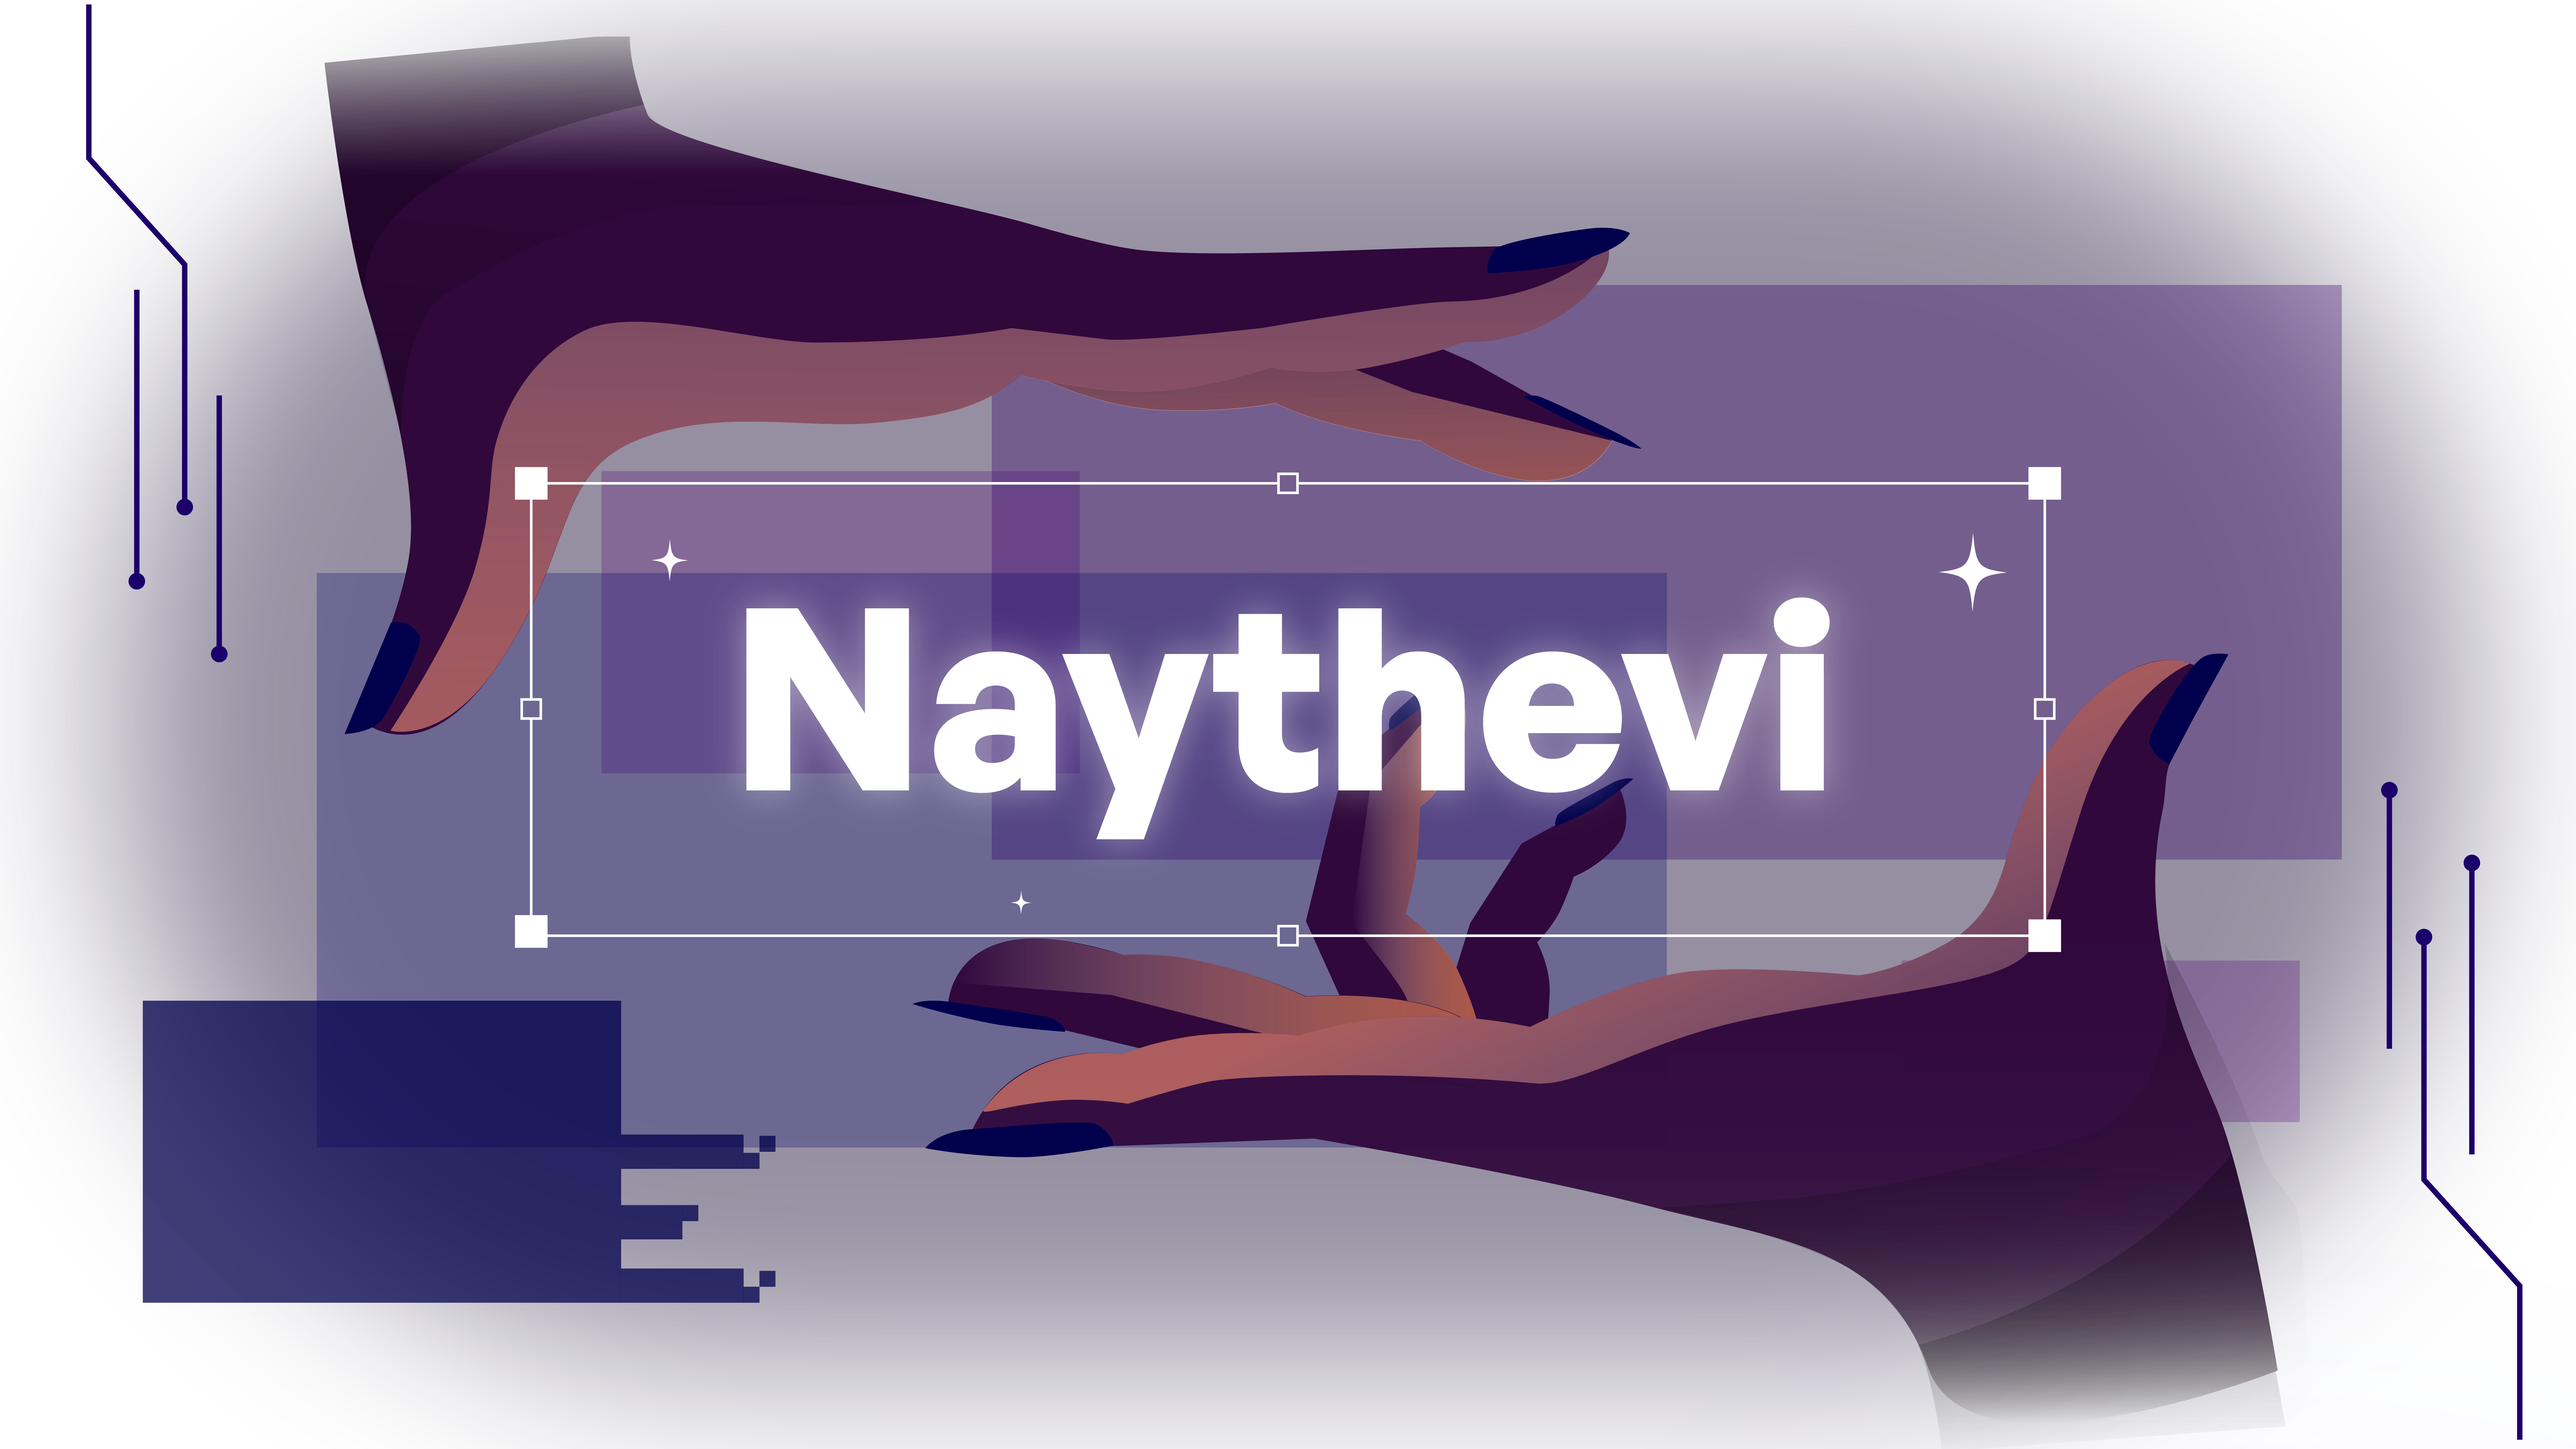
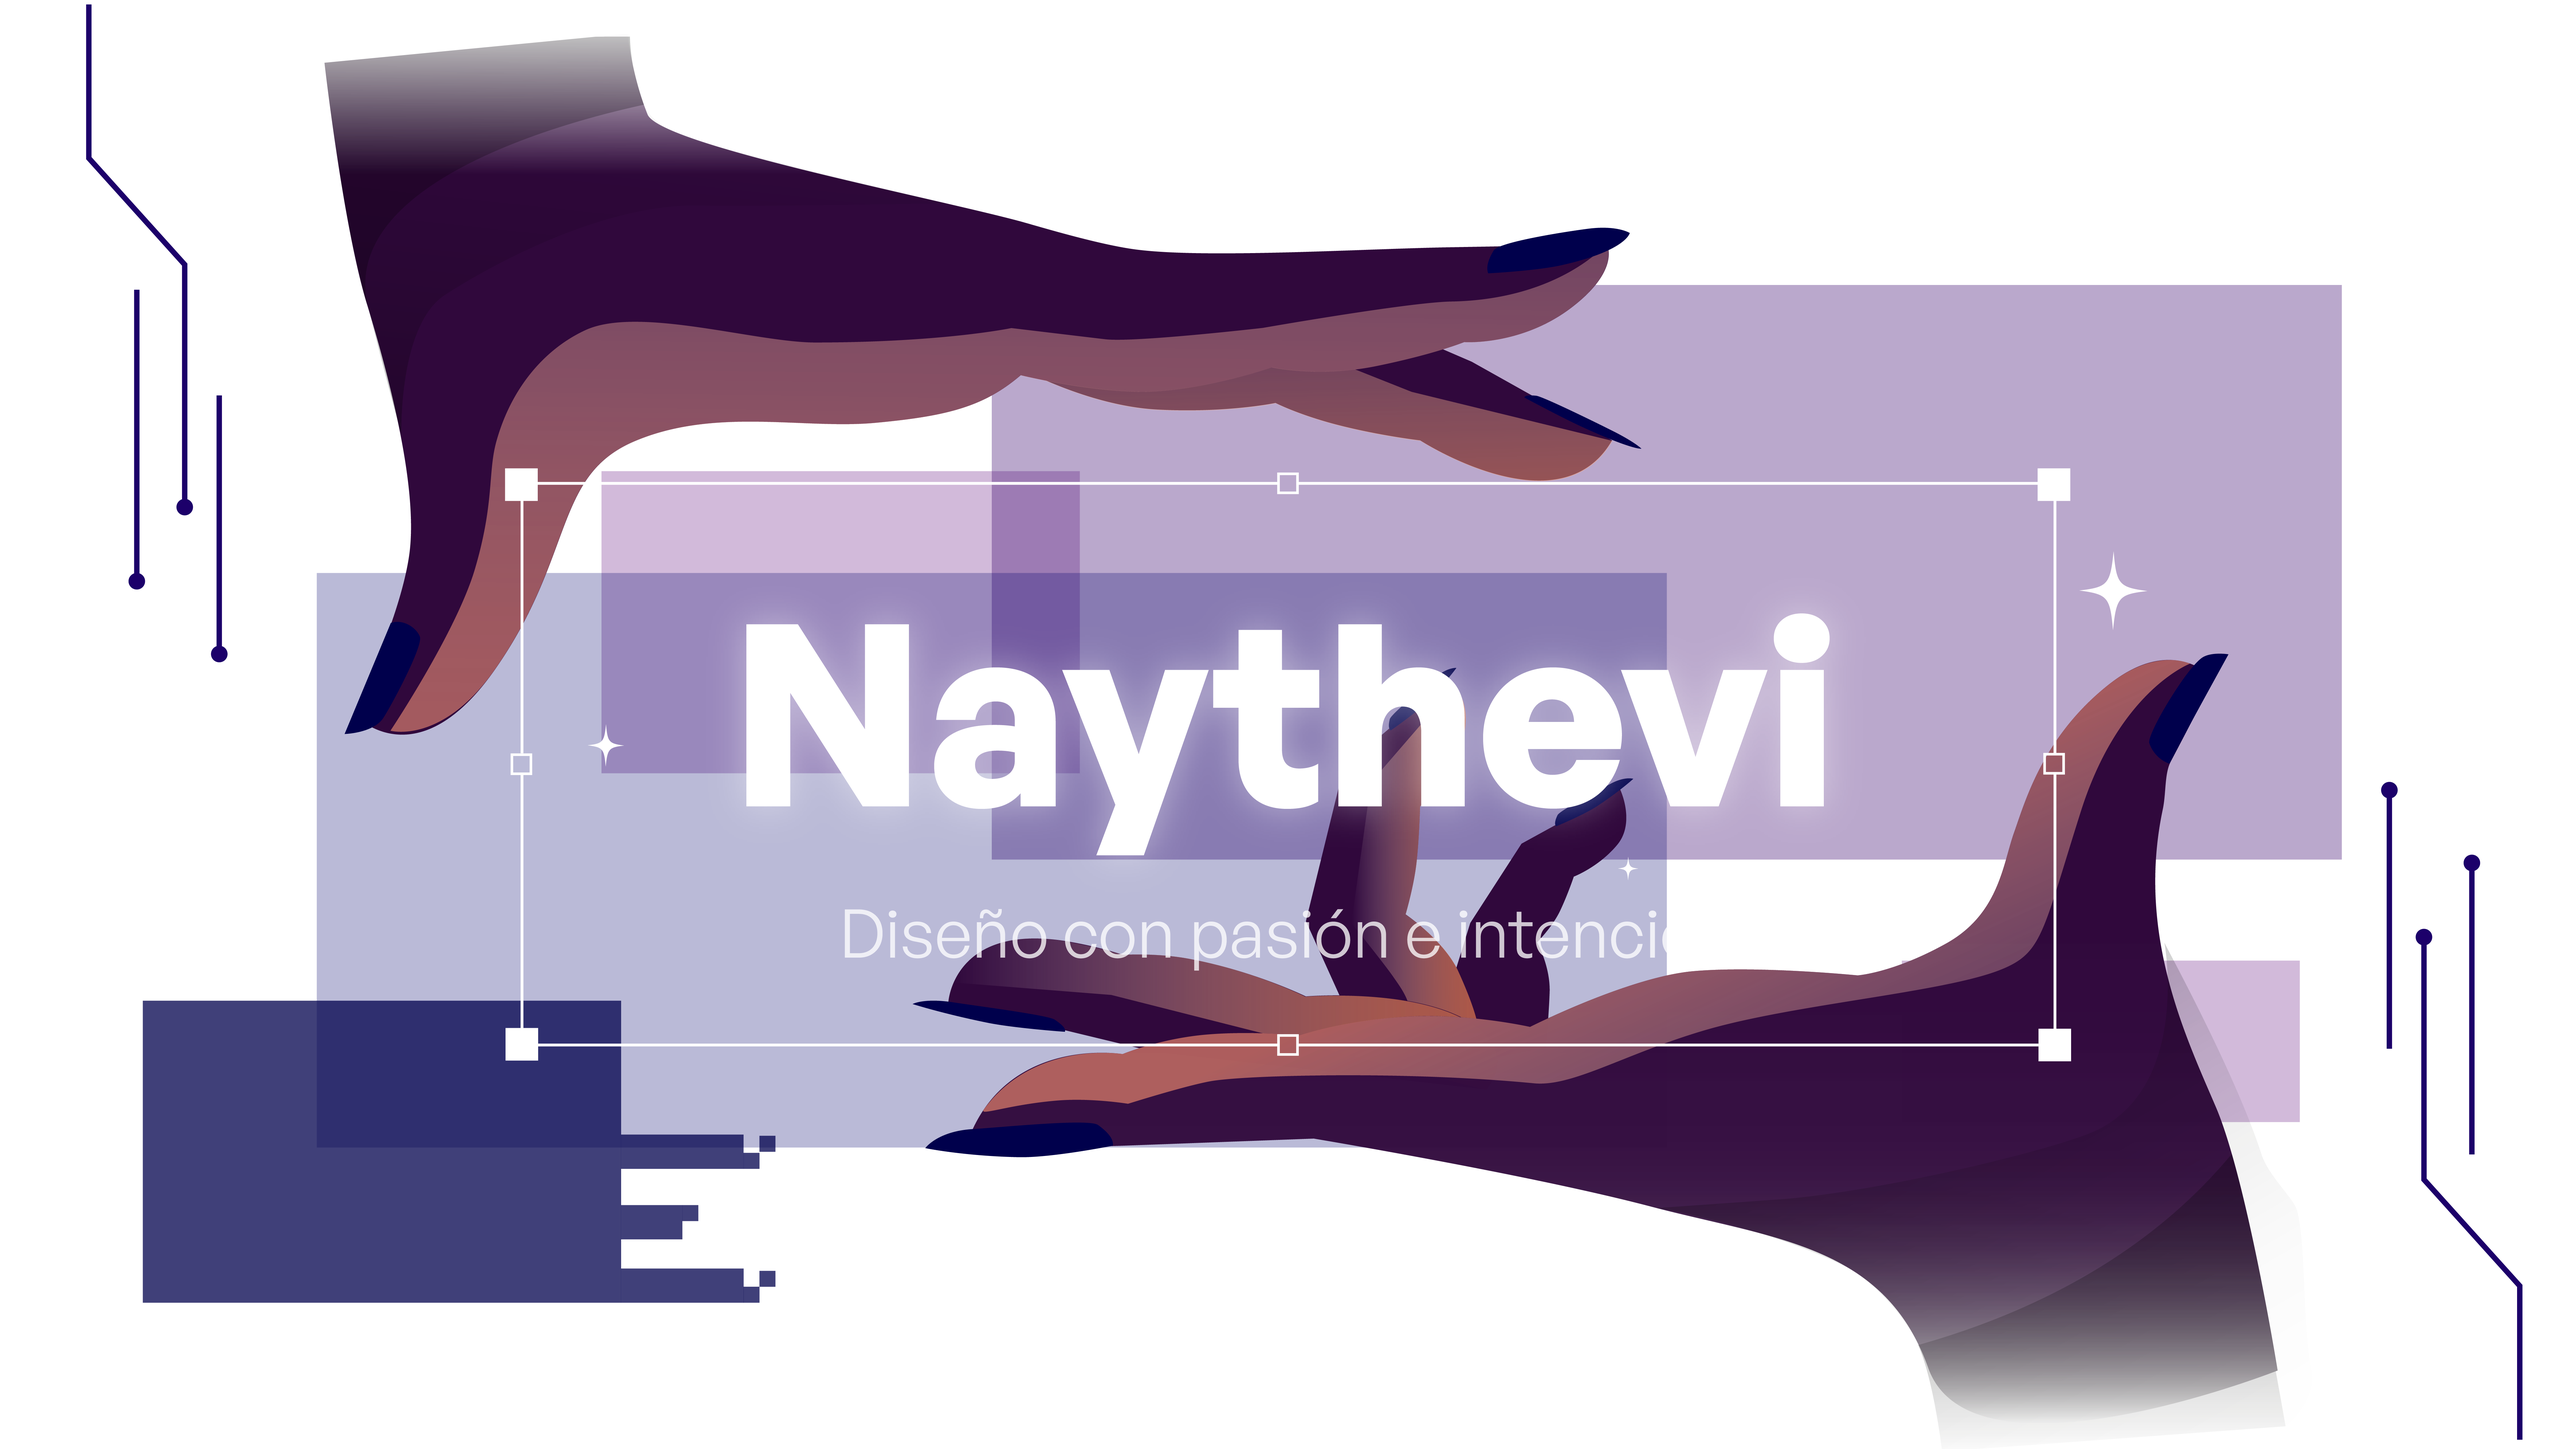
cambios

diff --git a/Inicio.html b/Inicio.html
@@ -72,13 +72,14 @@
             <div class="contenedor-inicio-parrafo">
                  
                 <p class="inicio-parrafo">
-                    Hola! Por si te preguntabas, Naythevi es la abreviatura de mi nombre y soy una diseñadora gráfica en Chile que disfruta de ser un medio entre las cosas y las personas. Es por esto que siempre procuro que mis trabajos destaquen por tener creatividad, interactividad y conexión con su esencia.
+                    Naythevi es la abreviatura de mi nombre. Soy una diseñadora gráfica en Chile que disfruta de ser un medio entre las cosas y las personas. Es por esto que siempre procuro que mis trabajos destaquen por tener creativad, interactividad y conexión con su escencia.
                 </p>
 
                 <p class="segundaparte-parrafo">
                     Disfruto mucho las áreas de Animación, Ilustración, Branding, Editorial y New media art. Por otro lado, de manera autodidacta, me encuentro aprendiendo el desarrollo de páginas webs y programación creativa.
                 </p> 
-                
+
+
                 <a href="Proyectos.html">
                     <button class="inicio-click">
                         <p class="clic-proyectos">
@@ -93,24 +94,15 @@
                             </svg>
                         </div>
                     </button>
-                </a>  
+                </a>    
+                    
+                
 
              </div>
             
         </div>
 
         
-        
-    
-
-        <footer>
-
-            <div class="footer">
-                <a class="footer-fila1" href="Contacto.html" > Contacto: naythevi@gmail.com | Instagram: @naythevisual</a>
-                <p class="footer-fila2">Todos los derechos reservados © 2024 | Página web hecha por mi ✿(✿ᴗ͈ ˬ ᴗ͈)✧</p>
-            </div>
-    
-        </footer>  
     
 
 

diff --git a/index.html b/index.html
@@ -71,7 +71,7 @@
             <div class="contenedor-inicio-parrafo">
                  
                 <p class="inicio-parrafo">
-                    Hola! Por si te preguntabas, Naythevi es la abreviatura de mi nombre y soy una diseñadora gráfica en Chile que disfruta de ser un medio entre las cosas y las personas. Es por esto que siempre procuro que mis trabajos destaquen por tener creativad, interactividad y conexión con su escencia.
+                    Naythevi es la abreviatura de mi nombre. Soy una diseñadora gráfica en Chile que disfruta de ser un medio entre las cosas y las personas. Es por esto que siempre procuro que mis trabajos destaquen por tener creativad, interactividad y conexión con su escencia.
                 </p>
 
                 <p class="segundaparte-parrafo">
@@ -102,17 +102,6 @@
         </div>
 
         
-        
-    
-
-        <footer>
-
-            <div class="footer">
-                <a class="footer-fila1" href="Contacto.html" > Contacto: naythevi@gmail.com | Instagram: @naythevisual</a>
-                <p class="footer-fila2">Todos los derechos reservados © 2024 | Página web hecha por mi ✿(✿ᴗ͈ ˬ ᴗ͈)✧</p>
-            </div>
-    
-        </footer> 
     
 
 

diff --git a/Sobre_mi.html b/Sobre_mi.html
@@ -100,14 +100,7 @@
     
         </div>
 
-        <footer>
-
-            <div class="footer">
-                <a class="footer-fila1" href="Contacto.html" > Contacto: naythevi@gmail.com | Instagram: @naythevisual</a>
-                <p class="footer-fila2">Todos los derechos reservados © 2024 | Página web hecha por mi ✿(✿ᴗ͈ ˬ ᴗ͈)✧</p>
-            </div>
-    
-        </footer>  
+       
             
  <script src="navbar.js"></script>
  <script src="cursor.js"></script>

diff --git a/Proyectos.html b/Proyectos.html
@@ -180,18 +180,6 @@
         </div>
 
 
-        <footer>
-
-            <div class="footer">
-                <a class="footer-fila1" href="Contacto.html" > Contacto: naythevi@gmail.com | Instagram: @naythevisual</a>
-                <p class="footer-fila2">Todos los derechos reservados © 2024 | Página web hecha por mi ✿(✿ᴗ͈ ˬ ᴗ͈)✧</p>
-            </div>
-    
-        </footer> 
-        
-    
-
-        
     
 
     <!-- Incluir el pie de página -->

diff --git a/navbar.html b/navbar.html
@@ -1,5 +1,5 @@
 <nav class="navbar">
-    <h1 class="navbar-title">NAYARETH HENRÍQUEZ VILLEGA </h1>
+    <h1 class="navbar-title"> </h1>
 
     <ul class="nav-links">
         <li><a id="index" href="index.html">0.1//Inicio</a></li>

diff --git a/navbar.css b/navbar.css
@@ -8,7 +8,8 @@
     position: fixed;
     top: 0;
     width: 100%;  
-    z-index: 4;     
+    z-index: 4; 
+    height: 50px;    
 }
 
 .navbar-title {
